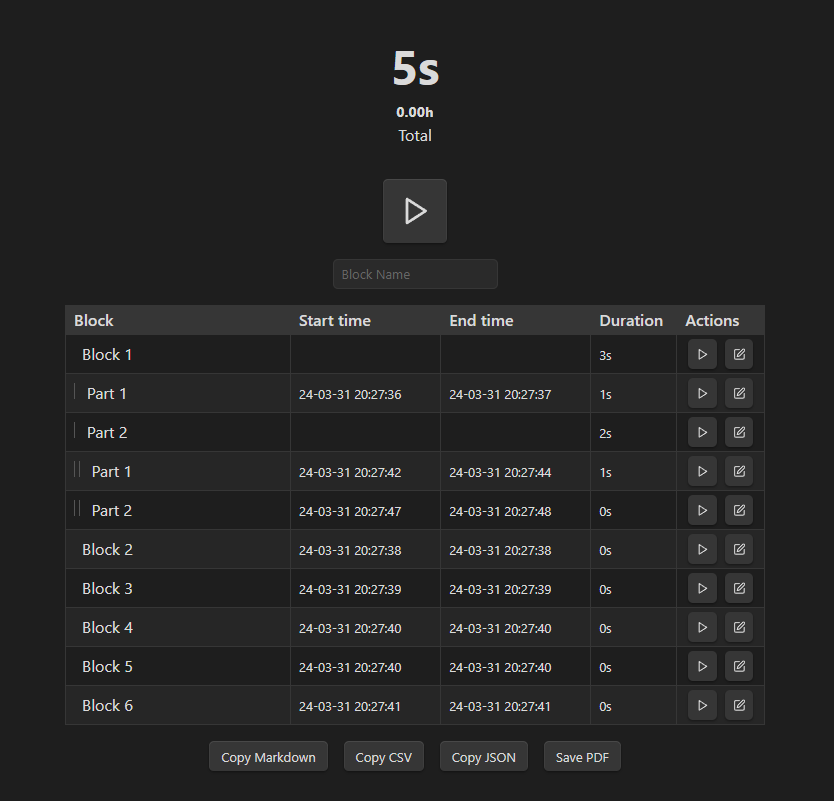
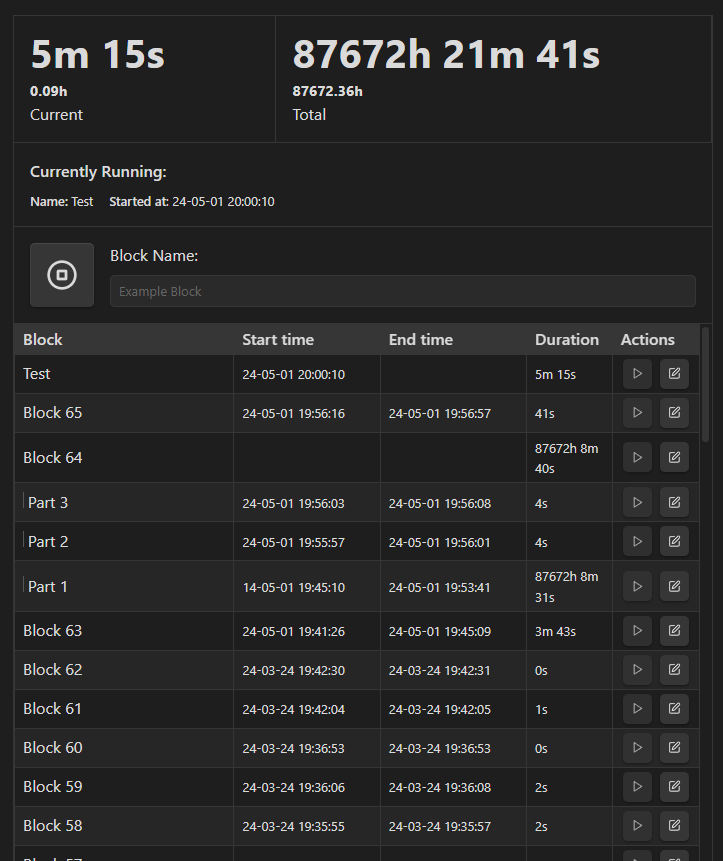
feat: new styling for tracker, show current running entry name and start time

diff --git a/src/styles.css b/src/styles.css
@@ -10,8 +10,7 @@
 	width: 100%;
 	display: flex;
 	flex-flow: column;
-	gap: 1rem;
-	padding-bottom: 1rem;
+	border: 1px solid var(--color-base-30);
 }
 
 .timekeep-table {
@@ -115,20 +114,23 @@
 	flex-flow: column;
 	gap: 0rem;
 	justify-content: center;
-	align-items: center;
+	/* align-items: center; */
 	padding: 1rem;
 	flex: auto;
+	border-right: 1px solid var(--color-base-30);
 	border-bottom: 1px solid var(--color-base-30);
 }
 
 .timekeep-timer-value {
 	font-size: 2.5rem;
 	font-weight: bolder;
+	line-height: 1;
+	margin-bottom: 0.5rem;
 }
 
 .timekeep-timer-value-small {
 	font-size: 0.9rem;
-	font-weight: bolder;
+	font-weight: bold;
 }
 
 .timekeep-start {
@@ -141,13 +143,41 @@
 
 .timekeep-name {
 	padding: 0.5rem;
-	align-self: center;
+	flex: auto;
 }
 
 .timekeep-actions {
 	display: flex;
 	flex-flow: row;
 	gap: 1rem;
-	justify-content: center;
 	align-items: center;
+	padding: 1rem;
+}
+
+.active-entry {
+	display: flex;
+	flex-flow: column;
+	gap: 0.5rem;
+	border-bottom: 1px solid var(--color-base-30);
+	padding: 1rem;
+}
+
+.active-entry__details {
+	display: flex;
+	gap: 1rem;
+	font-size: 0.8rem;
+}
+
+.timekeep-start-area {
+	display: flex;
+	gap: 1rem;
+	padding: 1rem;
+	border-bottom: 1px solid var(--color-base-30);
+}
+
+.timekeep-name-wrapper {
+	display: flex;
+	flex-flow: column;
+	flex: auto;
+	gap: 0.5rem;
 }

diff --git a/src/components/TimesheetCurrentEntry.tsx b/src/components/TimesheetCurrentEntry.tsx
@@ -1,0 +1,44 @@
+import React, { useMemo } from "react";
+import { formatTimestamp } from "@/utils";
+import { getRunningEntry } from "@/timekeep";
+import { useTimekeep } from "@/hooks/use-timekeep-context";
+import { useSettings } from "@/hooks/use-settings-context";
+
+/**
+ * Displays the currently running timekeep entry if one is available. Shows
+ * the name along with when it was started
+ */
+export default function TimesheetCurrentEntry() {
+	const { timekeep } = useTimekeep();
+	const settings = useSettings();
+	const currentEntry = useMemo(
+		() => getRunningEntry(timekeep.entries),
+		[timekeep]
+	);
+
+	// Only works when a current entry is active and is not a group entry (Shouldn't be possible?)
+	if (currentEntry === null || currentEntry.startTime === null) {
+		return null;
+	}
+
+	const formattedStartTime = formatTimestamp(
+		currentEntry.startTime,
+		settings
+	);
+
+	return (
+		<div className="active-entry">
+			<span>
+				<b>Currently Running:</b>
+			</span>
+			<div className="active-entry__details">
+				<span className="active-entry__name">
+					<b>Name: </b> {currentEntry.name}
+				</span>
+				<span className="active-entry__time">
+					<b>Started at</b>: {formattedStartTime}
+				</span>
+			</div>
+		</div>
+	);
+}

diff --git a/src/components/TimesheetStart.tsx b/src/components/TimesheetStart.tsx
@@ -38,7 +38,7 @@ export default function TimekeepStart() {
 	};
 
 	return (
-		<>
+		<div className="timekeep-start-area">
 			<button
 				onClick={onClick}
 				title={isTimekeepRunning ? "Stop" : "Start"}
@@ -49,13 +49,17 @@ export default function TimekeepStart() {
 					<PlayIcon width="1em" height="1em" />
 				)}
 			</button>
-			<input
-				className="timekeep-name"
-				placeholder="Block Name"
-				type="text"
-				value={name}
-				onChange={(event) => setName(event.target.value)}
-			/>
-		</>
+			<div className="timekeep-name-wrapper">
+				<label htmlFor="timekeepBlockName">Block Name:</label>
+				<input
+					id="timekeepBlockName"
+					className="timekeep-name"
+					placeholder="Example Block"
+					type="text"
+					value={name}
+					onChange={(event) => setName(event.target.value)}
+				/>
+			</div>
+		</div>
 	);
 }

diff --git a/src/App.tsx b/src/App.tsx
@@ -7,6 +7,7 @@ import { SettingsContext } from "@/hooks/use-settings-context";
 import { TimekeepContext } from "@/hooks/use-timekeep-context";
 import TimesheetCounters from "@/components/TimesheetCounters";
 import React, { useState, useCallback, SetStateAction } from "react";
+import TimesheetCurrentEntry from "@/components/TimesheetCurrentEntry";
 import TimesheetExportActions from "@/components/TimesheetExportActions";
 
 export type AppProps = {
@@ -85,6 +86,7 @@ export default function App({ initialState, save, settings }: AppProps) {
 				}}>
 				<div className="timekeep-container">
 					<TimesheetCounters />
+					<TimesheetCurrentEntry />
 					<TimesheetStart />
 					<TimesheetTable />
 					<TimesheetExportActions />

diff --git a/src/components/TimesheetRow.tsx b/src/components/TimesheetRow.tsx
@@ -60,7 +60,7 @@ export default function TimesheetRow({ entry, indent }: Props) {
 			<td className="timekeep-col timekeep-col--name">
 				{indentItems}
 
-				<span className="timekeep-name" title={entry.name}>
+				<span className="timekeep-entry-name" title={entry.name}>
 					{entry.name}
 				</span>
 			</td>
